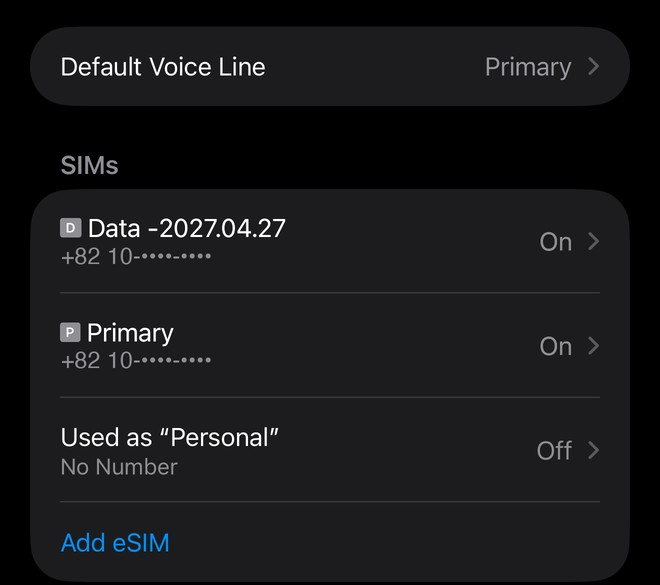
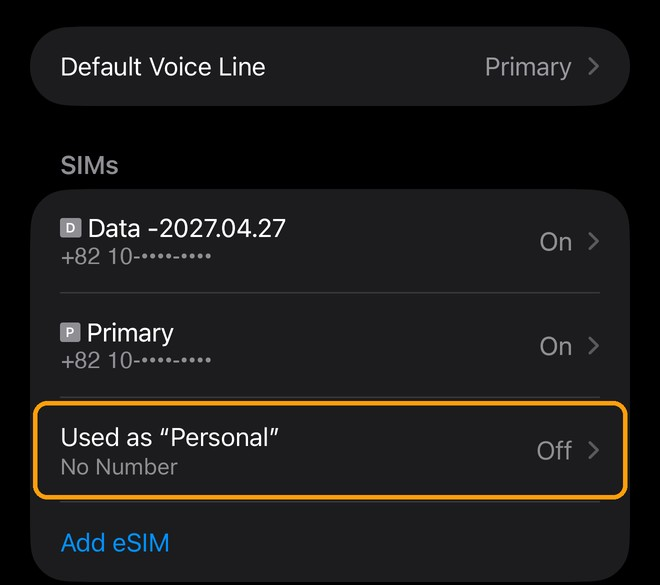
알뜰폰 글: 셀룰러 스크린샷의 새 eSIM 줄에 강조 상자 추가

Changed region(s): [[0.0303, 0.6769, 0.9697, 0.8615]]

diff --git a/_posts/2026-10-24-mvno-plans-2026-10.md b/_posts/2026-10-24-mvno-plans-2026-10.md
@@ -140,14 +140,14 @@ _에이모바일 요금표의 「할인개월 (가입월포함)」. 10월 말에
 원인은 **아이폰이 새 eSIM을 꺼진 채로 넣어 둔 것**이었습니다. 아이폰은 회선을 동시에 두 개만 켤 수 있는데, 이미 데이터 회선(유심)과 기존 전화 회선(eSIM)이 켜져 있었습니다. 설정 > 셀룰러 목록을 보니 새 회선이 「Used as "Personal" / No Number / 끔」으로 들어가 있었고, 그사이 번호이동이 처리돼 기존 회선은 신호만 뜨고 통화가 안 됐습니다.
 
 ![아이폰 설정 셀룰러 화면. 기본 음성 회선 Primary, SIM 목록에 Data와 Primary가 켜져 있고 새 eSIM은 Used as Personal, No Number, Off로 꺼져 있다](/assets/images/2026-10-24-ios-cellular-new-esim-off.jpg){: w="360" }
-_QR 설치 직후 설정 > 셀룰러. 새 eSIM이 맨 아래 「Used as "Personal" / No Number / Off」로 꺼져 있습니다(전화번호는 가렸습니다)_
+_QR 설치 직후 설정 > 셀룰러. 주황색 상자가 새 eSIM입니다. 「Used as "Personal" / No Number / Off」로 꺼져 있습니다(전화번호는 가렸습니다)_
 
 1. 설정 > 셀룰러에서 새 회선(이름이 Personal, Secondary 같은 것)을 누릅니다
 2. 「이 회선 켜기」를 켜고, 아이폰이 물으면 **기존 전화 회선을 끕니다.** 데이터 회선은 켜 둡니다
 3. 새 회선에 기존 번호가 표시되면 끝입니다. 기본 음성 회선이 새 회선인지, 「셀룰러 데이터 전환 허용」이 꺼져 있는지 확인합니다
 
 ![아이폰 설정 셀룰러 화면. 기본 음성 회선 Personal, 새 eSIM Personal이 켜져 기존 번호가 표시되고, 기존 회선은 Used as LG U+, No Number, Off](/assets/images/2026-10-24-ios-cellular-new-esim-on.jpg){: w="360" }
-_새 회선을 켠 뒤. 「Personal」에 기존 번호가 뜨고 기본 음성 회선도 바뀌었습니다. 예전 이야기모바일 회선은 「Used as "LG U+" / No Number / Off」가 됐습니다_
+_새 회선을 켠 뒤. 주황색 상자의 「Personal」에 기존 번호가 뜨고 기본 음성 회선도 바뀌었습니다. 예전 이야기모바일 회선은 「Used as "LG U+" / No Number / Off」가 됐습니다_
 
 「Personal」 같은 이름은 통신사가 아니라 아이폰이 자동으로 붙인 이름표라 회선 설정에서 바꾸면 됩니다. **기존 eSIM을 바로 지우거나 QR을 다시 찍지는 마세요.** QR은 한 번만 쓸 수 있고 재발급하면 비용(2,750원)이 붙습니다.
 
